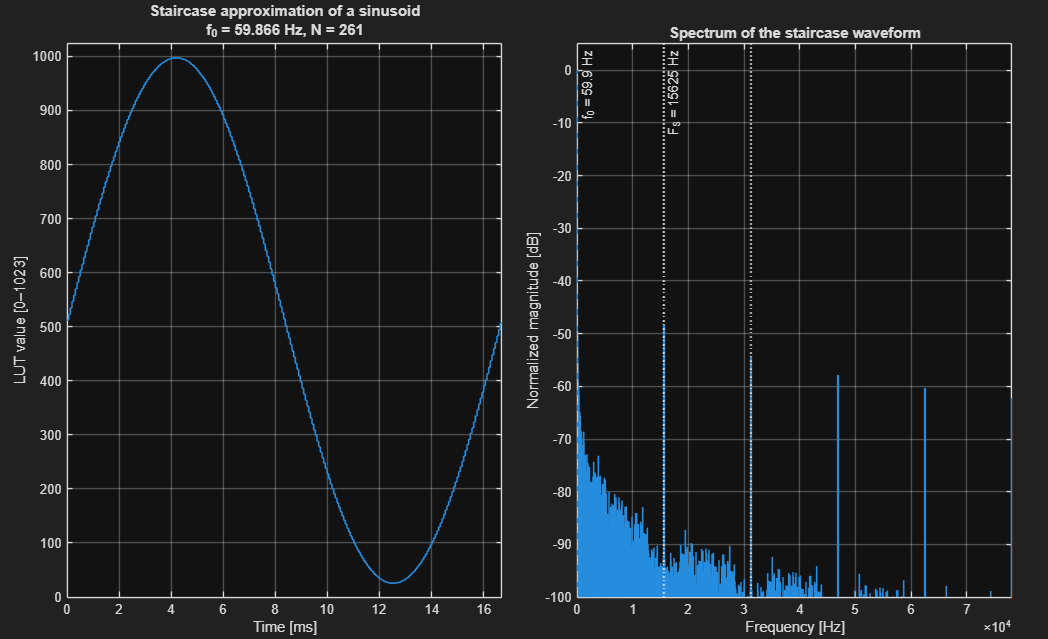
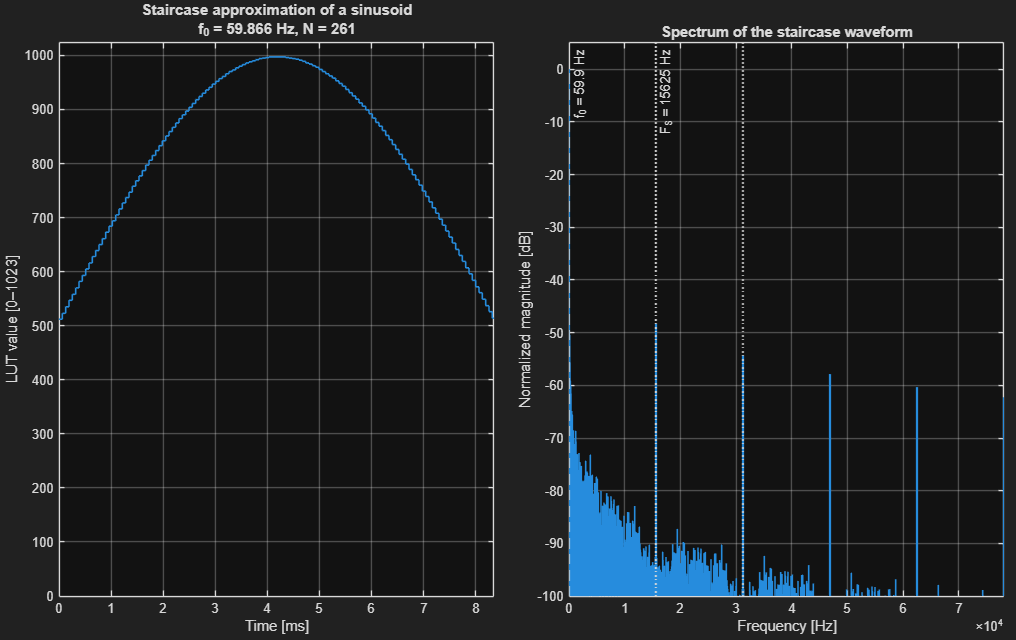
Sine generation section ReadMe update2

Changed region(s): [[0.0, 0.0, 1.0, 1.0]]

diff --git a/matlab/signal_analysis/theoretical/pwm_1kHz.m b/matlab/signal_analysis/theoretical/pwm_1kHz.m
@@ -13,7 +13,7 @@ if isempty(script_dir)
     script_dir = pwd;
 end
 
-filename = fullfile(script_dir, '..', '..', ...
+filename = fullfile(script_dir, '..', '..','..', ...
     'firmware', 'pwm_signal_generator', ...
     'lookup_tables', 'f1kHz.h');
 

diff --git a/matlab/signal_analysis/theoretical/pwm_60Hz.m b/matlab/signal_analysis/theoretical/pwm_60Hz.m
@@ -99,7 +99,7 @@ title(sprintf(['Staircase approximation of a sinusoid\n' ...
                'f_0 = %.3f Hz, N = %d'], ...
                f0, N));
 
-xlim([0 1/f0] * 1000);
+xlim([0 1/f0] * 1000/2);
 ylim([0 1023]);
 
 % Right plot - FFT

diff --git a/README.md b/README.md
@@ -74,7 +74,7 @@ Project workflow:
 
 ### Generating sinusoidal signals from filtered PWM carriers
 
-The Arduino could generate a staircase approximation of a sinusoidal waveform directly from the lookup-table (LUT) values. However, the quantization and discrete-time updates inherent to a staircase waveform introduce additional spectral components. Since the objective is to characterize the INA, these imperfections would make it more difficult to distinguish distortion originating from the signal generator from distortion introduced by the instrumentation amplifier under test.
+The Arduino could generate a staircase approximation of a sinusoidal waveform directly from the lookup-table (LUT) values. However, the quantization and discrete-time updates inherent to a staircase waveform introduce additional spectral components. Since the objective is to characterize the INA, these imperfections would make it more difficult to distinguish distortion originating from the signal generator from distortion introduced by the instrumentation amplifier under test (See Figure 1).
 
 <p align="center">
   <img src="docs/images/signal_analysis/staircase_waveform.png"
@@ -106,7 +106,7 @@ The sinusoidal lookup table (LUT) defines the duty-cycle trajectory used to modu
 
 The LUT values are generated offline and embedded in the Arduino firmware through dedicated header files located in the firmware section of this repository. During operation, the microcontroller continuously updates the PWM duty cycle by stepping through the LUT entries.
 
-Although Figure 1 displays a sinusoidal waveform for visualization purposes, no analog sinusoidal voltage is directly generated by the microcontroller. The only signal produced by the Arduino is a variable-duty-cycle PWM waveform whose average value follows the sinusoidal trajectory defined by the LUT.
+Although Figure 2 displays a sinusoidal waveform for visualization purposes, no analog sinusoidal voltage is directly generated by the microcontroller. The only signal produced by the Arduino is a variable-duty-cycle PWM waveform whose average value follows the sinusoidal trajectory defined by the LUT.
 
 After analog filtering, the low-frequency sinusoidal envelope is reconstructed while the high-frequency PWM carrier and its associated harmonics are attenuated.
 <p align="center">
@@ -114,15 +114,15 @@ After analog filtering, the low-frequency sinusoidal envelope is reconstructed w
 </p>
 
 <p align="center">
-  <em>Figure 1. Time-domain representation of the 60 Hz lookup table and the corresponding PWM waveform.</em>
+  <em>Figure 2. Time-domain representation of the 60 Hz lookup table and the corresponding PWM waveform.</em>
 </p>
 
 
 #### Frequency-domain analysis
 
-Figure 2 shows the spectrum of the sinusoidal lookup table (LUT), revealing the desired 60 Hz component together with a large DC component resulting from the positive-only PWM duty-cycle range.
+Figure 3 shows the spectrum of the sinusoidal lookup table (LUT), revealing the desired 60 Hz component together with a large DC component resulting from the positive-only PWM duty-cycle range.
 
-Figure 3 shows the spectrum of the corresponding PWM signal. After modulation, the desired 60 Hz component remains dominant, while harmonics introduced by the PWM process remain more than 40 dB below the fundamental component. The PWM carrier, however, also generates high-frequency spectral components around the carrier frequency (see Figure 4). These components are removed by the analog reconstruction filters, leaving only the desired low-frequency sinusoidal envelope.
+Figure 4 shows the spectrum of the corresponding PWM signal. After modulation, the desired 60 Hz component remains dominant, while harmonics introduced by the PWM process remain more than 40 dB below the fundamental component. The PWM carrier, however, also generates high-frequency spectral components around the carrier frequency (see Figure 5). These components are removed by the analog reconstruction filters, leaving only the desired low-frequency sinusoidal envelope.
 
 <p align="center">
   <img src="docs/images/signal_analysis/PWM60Hz_FFT_LUT.png" width="49%" />
@@ -130,8 +130,8 @@ Figure 3 shows the spectrum of the corresponding PWM signal. After modulation, t
 </p>
 
 <p align="center">
-  <em>Figure 2. Frequency spectrum of the 60 Hz lookup table.</em><br>
-  <em>Figure 3. Frequency spectrum of the LUT-modulated PWM signal(0-1kHz).</em>
+  <em>Figure 3. Frequency spectrum of the 60 Hz lookup table.</em><br>
+  <em>Figure 4. Frequency spectrum of the LUT-modulated PWM signal(0-1kHz).</em>
 </p>
 
 This frequency-domain view highlights two important design objectives:
@@ -142,9 +142,9 @@ This frequency-domain view highlights two important design objectives:
 
 The figures below show the frequency response of the reconstruction filter superimposed on the spectrum of the LUT-modulated PWM signal.
 
-Figure 4 shows the spectrum of the LUT-modulated PWM signal together with the reconstruction filter response over a wide frequency range. The PWM carrier and its associated sidebands can be observed at high frequencies. The reconstruction filter provides approximately 40 dB of attenuation at the carrier frequency, significantly reducing the PWM switching content.
+Figure 5 shows the spectrum of the LUT-modulated PWM signal together with the reconstruction filter response over a wide frequency range. The PWM carrier and its associated sidebands can be observed at high frequencies. The reconstruction filter provides approximately 40 dB of attenuation at the carrier frequency, significantly reducing the PWM switching content.
 
-Figure 5 focuses on the low-frequency region of interest. The DC component is strongly attenuated by the high-pass stage, while the desired 60 Hz component remains within the passband. The figure also highlights the large amplitude difference between the fundamental component and its harmonics, which are more than 40 dB below the 60 Hz signal.
+Figure 6 focuses on the low-frequency region of interest. The DC component is strongly attenuated by the high-pass stage, while the desired 60 Hz component remains within the passband. The figure also highlights the large amplitude difference between the fundamental component and its harmonics, which are more than 40 dB below the 60 Hz signal.
 
 <p align="center">
   <img src="docs/images/signal_analysis/PWM60Hz_FFT_PWM_and_filter.png" width="49%" />
@@ -152,8 +152,8 @@ Figure 5 focuses on the low-frequency region of interest. The DC component is st
 </p>
 
 <p align="center">
-  <em>Figure 4. Reconstruction filter response superimposed on the spectrum of the LUT-modulated PWM signal.</em><br>
-  <em>Figure 5. Zoomed view of the low-frequency region showing the passband, DC attenuation and harmonic content.</em>
+  <em>Figure 5. Reconstruction filter response superimposed on the spectrum of the LUT-modulated PWM signal.</em><br>
+  <em>Figure 6. Zoomed view of the low-frequency region showing the passband, DC attenuation and harmonic content.</em>
 </p>
 
 The resulting 19 Hz – 164 Hz band-pass response preserves the desired 60 Hz sinusoidal component while attenuating both the DC offset and the high-frequency PWM carrier. The origin of these cutoff frequencies is detailed in the Analog Filter Stages section.
@@ -174,8 +174,8 @@ The figures below illustrate the frequency-domain behavior of the 1 kHz signal p
 </p>
 
 <p align="center">
-  <em>Figure 6. Reconstruction filter response superimposed on the 1 kHz PWM spectrum.</em><br>
-  <em>Figure 7. Zoomed view of the 1 kHz passband.</em>
+  <em>Figure 7. Reconstruction filter response superimposed on the 1 kHz PWM spectrum.</em><br>
+  <em>Figure 8. Zoomed view of the 1 kHz passband.</em>
 </p>
 
 ### Analog Filter Stages
@@ -313,7 +313,7 @@ For the **1 kHz** signal path, the higher Timer2 PWM frequency produces a much d
 </p>
 
 <p align="center">
-  <em>Figure 8. Measured unfiltered PWM waveforms for the 60 Hz and 1 kHz signal paths.</em>
+  <em>Figure 9. Measured unfiltered PWM waveforms for the 60 Hz and 1 kHz signal paths.</em>
 </p>
 
 <p align="center">
@@ -322,7 +322,7 @@ For the **1 kHz** signal path, the higher Timer2 PWM frequency produces a much d
 </p>
 
 <p align="center">
-  <em>Figure 9. MATLAB FFT of the measured PWM waveforms prior to analog reconstruction filtering.</em>
+  <em>Figure 10. MATLAB FFT of the measured PWM waveforms prior to analog reconstruction filtering.</em>
 </p>
 
 These measurements validate the PWM generation firmware, the oscilloscope acquisition procedure, and the MATLAB analysis tools before evaluating the analog reconstruction filters.
